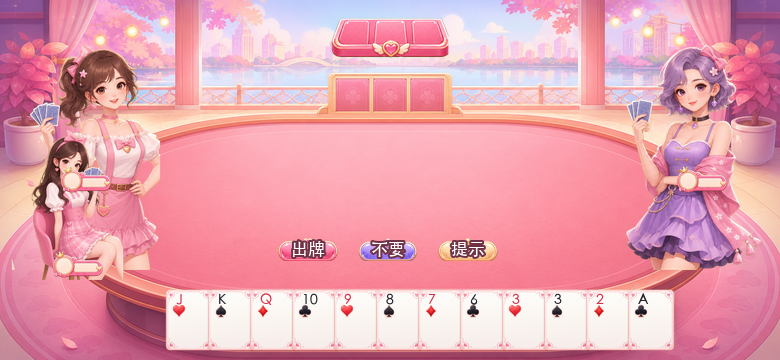
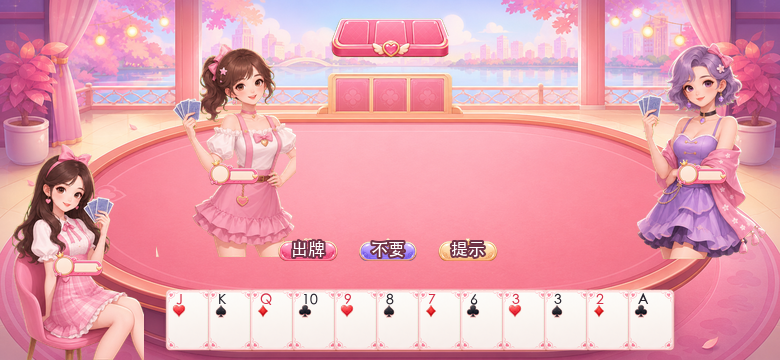
fix(ART-GAME-REMAKE): align v13 character composite layout

Changed region(s): [[0.0, 0.1222, 0.4, 1.0], [0.8, 0.1222, 0.9846, 0.7639]]

diff --git a/asset-previews/v13-pink-game-remake/scripts/finalize_imagegen_v13.py b/asset-previews/v13-pink-game-remake/scripts/finalize_imagegen_v13.py
@@ -66,23 +66,23 @@ CARD_SPECS = [
 
 ZONE_SIZES = {
   "844x390": {
-    "heroBody": (8, 140, 152, 164),
-    "leftBody": (8, 47, 169, 249),
-    "rightBody": (667, 47, 169, 249),
+    "heroBody": (8, 156, 152, 234),
+    "leftBody": (168, 47, 152, 234),
+    "rightBody": (684, 47, 152, 234),
     "heroNameplate": (8, 271, 152, 33),
-    "leftNameplate": (16, 179, 152, 33),
-    "rightNameplate": (684, 179, 152, 33),
+    "leftNameplate": (176, 171, 152, 33),
+    "rightNameplate": (684, 171, 152, 33),
     "hand": (176, 304, 660, 86),
     "action": (287, 247, 270, 49),
     "settlement": (186, 35, 473, 195),
   },
   "780x360": {
-    "heroBody": (8, 130, 140, 150),
-    "leftBody": (8, 43, 156, 229),
-    "rightBody": (616, 43, 156, 229),
+    "heroBody": (8, 144, 140, 216),
+    "leftBody": (156, 43, 140, 216),
+    "rightBody": (632, 43, 140, 216),
     "heroNameplate": (8, 249, 140, 31),
-    "leftNameplate": (16, 164, 140, 31),
-    "rightNameplate": (632, 164, 140, 31),
+    "leftNameplate": (164, 157, 140, 31),
+    "rightNameplate": (632, 157, 140, 31),
     "hand": (164, 280, 608, 80),
     "action": (264, 227, 252, 45),
     "settlement": (172, 32, 437, 180),
@@ -201,9 +201,9 @@ def build_scene_composite(zone_key: str, size: tuple[int, int], out: Path, mode:
   bg = Image.open(OUT_BG / "game-table-bg-v13.png").convert("RGBA").resize(size, Image.Resampling.LANCZOS)
   canvas = bg.copy()
 
-  paste_fit(canvas, OUT_AVATAR / "left-ai-body-v13.png", zones["leftBody"])
-  paste_fit(canvas, OUT_AVATAR / "right-ai-body-v13.png", zones["rightBody"])
-  paste_fit(canvas, OUT_AVATAR / "hero-body-v13.png", zones["heroBody"])
+  paste_subject_fit(canvas, OUT_AVATAR / "left-ai-body-v13.png", zones["leftBody"])
+  paste_subject_fit(canvas, OUT_AVATAR / "right-ai-body-v13.png", zones["rightBody"])
+  paste_subject_fit(canvas, OUT_AVATAR / "hero-body-v13.png", zones["heroBody"])
   paste_fit(canvas, OUT_UI / "seat-nameplate-v13.png", zones["leftNameplate"])
   paste_fit(canvas, OUT_UI / "seat-nameplate-v13.png", zones["rightNameplate"])
   paste_fit(canvas, OUT_UI / "seat-nameplate-v13.png", zones["heroNameplate"])
@@ -246,6 +246,16 @@ def build_scene_composite(zone_key: str, size: tuple[int, int], out: Path, mode:
 
 def paste_fit(canvas: Image.Image, asset_path: Path, rect: tuple[int, int, int, int]) -> None:
   asset = Image.open(asset_path).convert("RGBA")
+  x, y, w, h = rect
+  fitted = contain(asset, (w, h), 0)
+  canvas.alpha_composite(fitted, (x, y))
+
+
+def paste_subject_fit(canvas: Image.Image, asset_path: Path, rect: tuple[int, int, int, int]) -> None:
+  asset = Image.open(asset_path).convert("RGBA")
+  bbox = asset.getbbox()
+  if bbox is not None:
+    asset = asset.crop(bbox)
   x, y, w, h = rect
   fitted = contain(asset, (w, h), 0)
   canvas.alpha_composite(fitted, (x, y))
@@ -429,6 +439,7 @@ def write_prompts() -> None:
     "- Existing `*-preview.png`, `review-sheet.png`, and `composites/composite-*.png` are **layout mockup only / 非正式资产** from the older Pillow pass.",
     "- Formal `*-v13.png` assets in this package are derived from built-in `image_gen` source images under `source/generated-v13/`.",
     "- Pillow is used only for non-creative post-processing: crop, chroma-key removal, resize, 9-slice stretch simulation, review-sheet/composite layout, and sha256 calculation.",
+    "- User feedback fix 2026-07-05: bidding/playing/settlement composites were rejected because characters overlapped, the three body sizes were inconsistent, and the hero appeared on the tabletop instead of beside the hand. Composite zones now mirror T-LAYOUT3 fix `927b375`, use equal body rectangles, and keep the hero left of `heroHandLarge`; no image_gen source was regenerated.",
     "",
     "## Built-in image_gen source prompts",
     "",

diff --git a/coordination/reports/ART-GAME-REMAKE.report.md b/coordination/reports/ART-GAME-REMAKE.report.md
@@ -2,7 +2,7 @@
 
 - 实现方标识：Codex
 - 分支：`task/ART-GAME-REMAKE`
-- 状态：in-review（等待用户逐件图审；未进入 import）
+- 状态：in-review（用户图审打回重排已提交；等待用户复审；未进入 import）
 
 ## 改了哪些文件
 
@@ -112,9 +112,9 @@ cards/suit-club-v13.png 4a80a76d6c98aff9 128x128 alpha True corners True
 cards/suit-diamond-v13.png 4df5921f0fc127f2 128x128 alpha True corners True
 cards/suit-heart-v13.png 0af62567b214f762 128x128 alpha True corners True
 cards/suit-spade-v13.png f1fb7153001e6ba6 128x128 alpha True corners True
-composites/v13/composite-780x360-playing-v13.png 5ba40f95ab8ce1bf 780x360 alpha False corners False
-composites/v13/composite-844x390-bidding-v13.png 5ad5c84b58b1a9e5 844x390 alpha False corners False
-composites/v13/composite-844x390-settlement-v13.png f52799c94ec2e088 844x390 alpha False corners False
+composites/v13/composite-780x360-playing-v13.png 35f31c6a455785da 780x360 alpha False corners False
+composites/v13/composite-844x390-bidding-v13.png 7f6d951c84e66c1e 844x390 alpha False corners False
+composites/v13/composite-844x390-settlement-v13.png 0d5f3809d9dffde0 844x390 alpha False corners False
 ```
 
 完整 sha256 见 `asset-previews/v13-pink-game-remake/manifest-v13.json` 与 `PROMPTS.md`。
@@ -192,6 +192,63 @@ git status --short --untracked-files=all
 - `settlement-banner-win-v13` / `settlement-banner-lose-v13` 为无字装饰底图；合成预览中的「地主胜利」是 composite 上的代码字效果示意，不是正式资产内文字。
 - Joker 使用原创小丑/皇冠图案区分大小王，无 `JOKER` 文字，避免 image_gen 文字瑕疵。
 - `ui/badge-role-v13.png` 是 UI sheet 附加裁切件，不在本轮必选 import 清单内。
+
+## 用户图审打回返工段（Codex · 2026-07-05）
+
+### 打回项
+
+- 用户反馈 1：`bidding`、`playing`、`settlement` 三个页面里三个人有两个人重叠，需参考此前示意图的布局避免人物重叠。
+- 用户反馈 2：三个人的大小需要一样；玩家角色是在自己手牌的左边，不能出现在牌桌上。
+- 关联根因：`T-LAYOUT3` 审查者已打回 `heroBody` 与 `opponentLeftBody` zone 重叠；布局返工已在 `task/T-LAYOUT3` 提交 `7c9a55b` 与二次提交 `927b375`。
+
+### 修复方式
+
+- 未重新生成 image_gen 源图，未替换正式分项资产。
+- 只更新 `finalize_imagegen_v13.py` 的合成预览 `ZONE_SIZES`：
+  - 844×390：三名 body 统一 `152×234`；玩家 `x=8..160`，手牌从 `x=176` 开始。
+  - 780×360：三名 body 统一 `140×216`；玩家 `x=8..148`，手牌从 `x=164` 开始。
+- 合成时角色使用 alpha bbox 适配同尺寸 zone，避免透明边导致玩家视觉上偏小。
+- 重新生成三张 composite、`review-sheet-v2.png`、`manifest-v13.json` 与 `PROMPTS.md`。
+- `PROMPTS.md` 已记录本轮用户图审打回与 `T-LAYOUT3` 修复提交指针。
+
+### 返工后机械校验
+
+```
+python3 asset-previews/v13-pink-game-remake/scripts/finalize_imagegen_v13.py
+completed
+
+asset list check
+missing []
+not_manifest []
+old_entries []
+alpha_bad []
+
+manifest_count 39
+composites/v13/composite-844x390-bidding-v13.png 7f6d951c84e66c1e 844x390 alpha False corners False
+composites/v13/composite-780x360-playing-v13.png 35f31c6a455785da 780x360 alpha False corners False
+composites/v13/composite-844x390-settlement-v13.png 0d5f3809d9dffde0 844x390 alpha False corners False
+review-sheet-v2.png c78907d97ba47e84 1800x1320 alpha False corners False
+```
+
+### 返工后目检
+
+- `composite-844x390-bidding-v13.png`：三名角色同尺寸；玩家在手牌左侧，不进入牌桌中央；无人物互叠。
+- `composite-780x360-playing-v13.png`：三名角色同尺寸；玩家在手牌左侧，底部手牌区未被人物压住。
+- `composite-844x390-settlement-v13.png`：暗幕下三名角色同尺寸并保留围桌关系；玩家仍在手牌左侧/左下区域。
+
+### 返工后测试与类型检查输出
+
+```
+npm --prefix test test
+Test Files  140 passed (140)
+Tests       711 passed (711)
+
+npm --prefix test run typecheck
+tsc --noEmit passed
+
+git diff --check
+passed
+```
 
 ## 疑问 / 需规划者裁定
 

diff --git a/asset-previews/v13-pink-game-remake/PROMPTS.md b/asset-previews/v13-pink-game-remake/PROMPTS.md
@@ -8,6 +8,7 @@
 - Existing `*-preview.png`, `review-sheet.png`, and `composites/composite-*.png` are **layout mockup only / 非正式资产** from the older Pillow pass.
 - Formal `*-v13.png` assets in this package are derived from built-in `image_gen` source images under `source/generated-v13/`.
 - Pillow is used only for non-creative post-processing: crop, chroma-key removal, resize, 9-slice stretch simulation, review-sheet/composite layout, and sha256 calculation.
+- User feedback fix 2026-07-05: bidding/playing/settlement composites were rejected because characters overlapped, the three body sizes were inconsistent, and the hero appeared on the tabletop instead of beside the hand. Composite zones now mirror T-LAYOUT3 fix `927b375`, use equal body rectangles, and keep the hero left of `heroHandLarge`; no image_gen source was regenerated.
 
 ## Built-in image_gen source prompts
 
@@ -64,7 +65,7 @@ Prompt summary: text-free pink cartoon card sprite sheet on flat #00ff00 chroma-
[11 lines of base64/hex data omitted]
